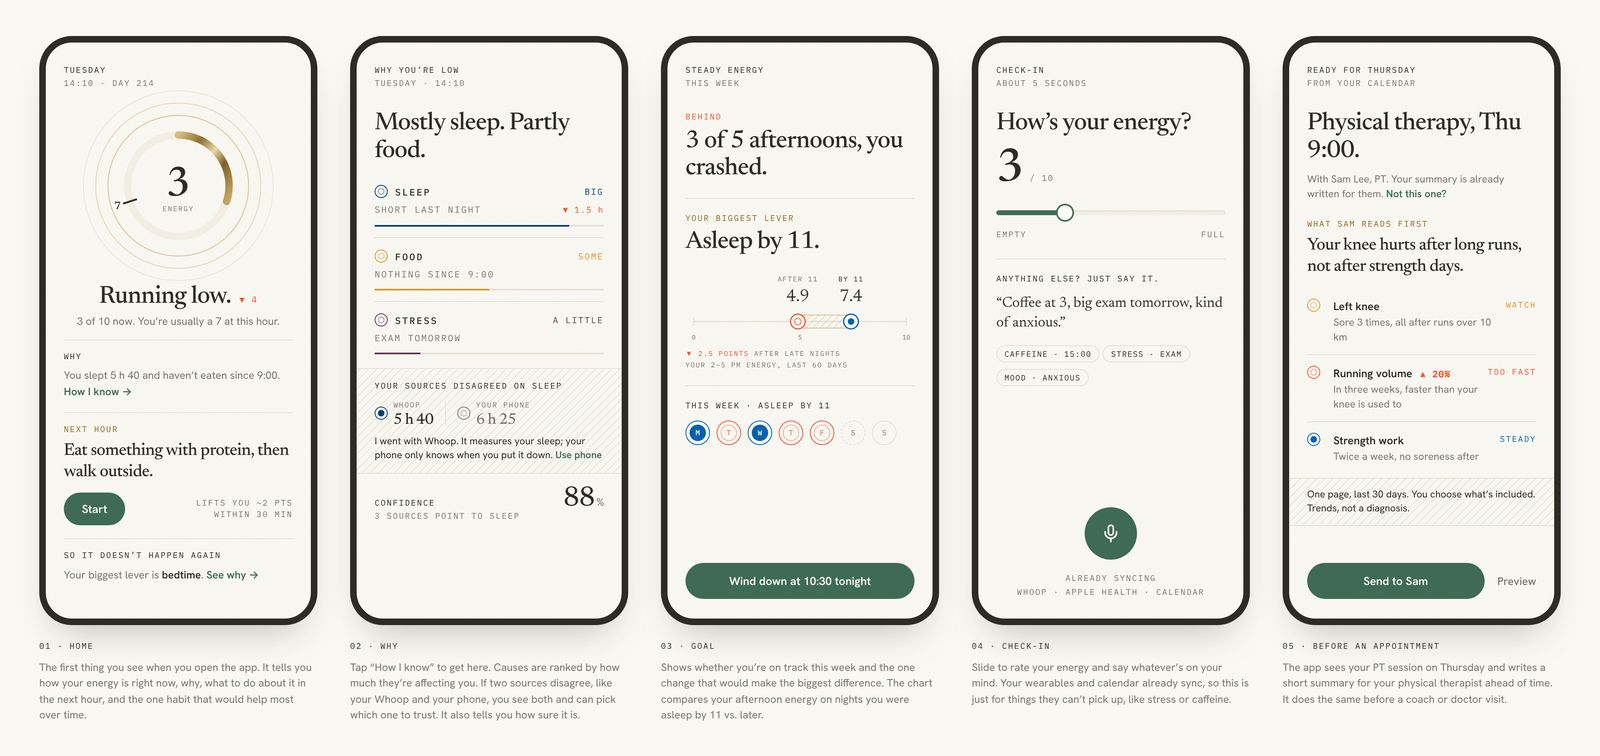
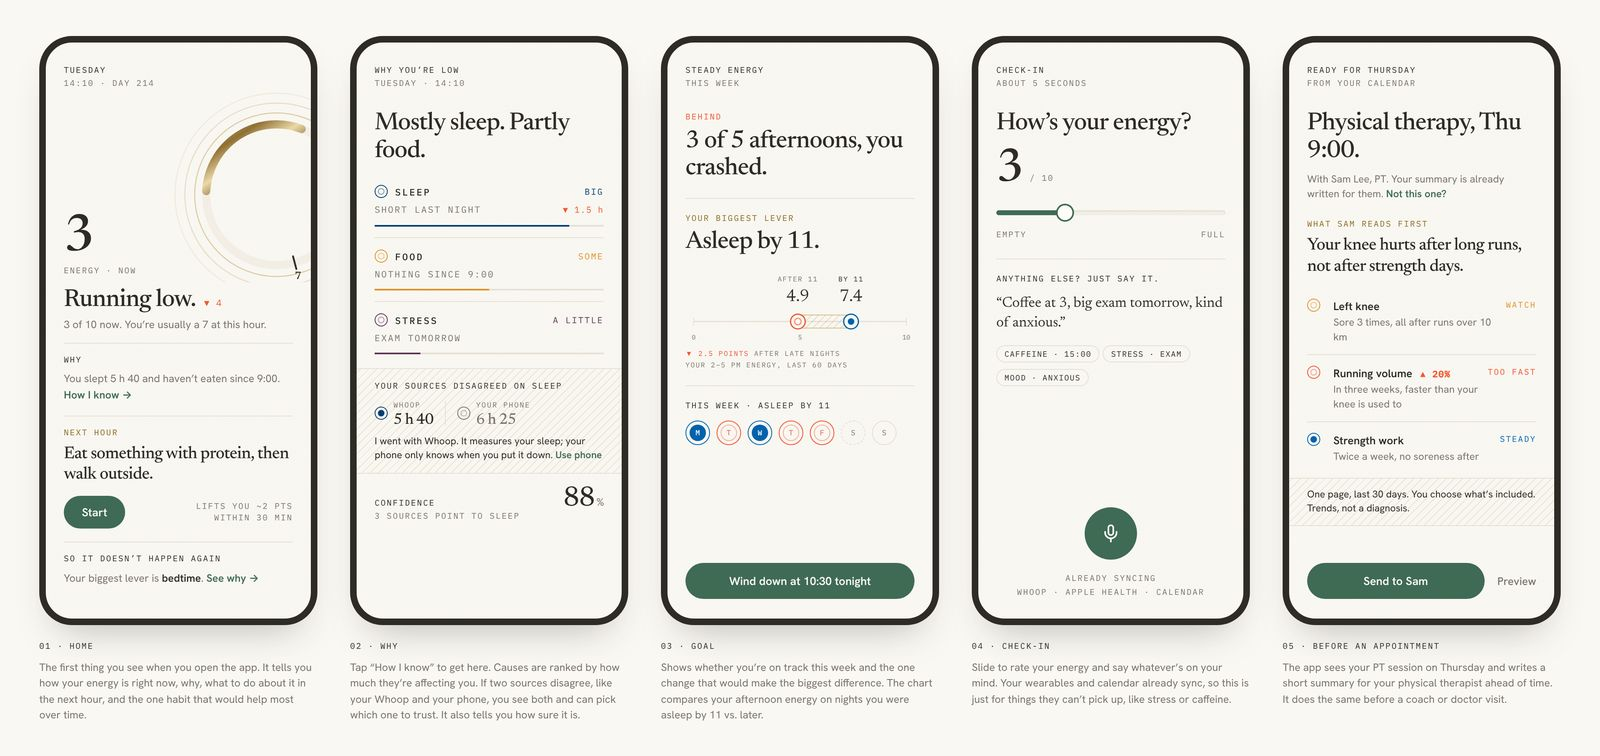
VitaSalus: new hero image and attribute the WHOOP quote to an interviewee

diff --git a/index.html b/index.html
@@ -3692,7 +3692,7 @@
 
                 <figure class="vs-figure vs-figure--hero">
                     <button type="button" class="vs-zoom" aria-label="Enlarge the five final screens">
-                        <img src="vitasalus/screens-overview.jpg" width="1600" height="756" alt="The five final VitaSalus screens side by side: Home (Running low, 3 of 10), Why (Mostly sleep, partly food), Goal (Behind, 3 of 5 afternoons you crashed), Check-in (How's your energy?), and Before an appointment (Physical therapy, Thu 9:00)." decoding="async">
+                        <img src="vitasalus/screens-overview.jpg" width="1600" height="756" alt="The five final VitaSalus screens side by side: Home (energy 3 with the ring running off the right edge, Running low), Why (Mostly sleep, partly food), Goal (Behind, 3 of 5 afternoons you crashed), Check-in (How's your energy?), and Before an appointment (Physical therapy, Thu 9:00)." decoding="async">
                     </button>
                     <figcaption>The five final screens: home, why, goal, check-in, and a summary prepared before an appointment. High-fidelity concepts built from my design system; names and health values are sample data.</figcaption>
                 </figure>
@@ -3796,7 +3796,7 @@
                 <section class="vs-section" id="vs-iteration" aria-labelledby="vs-iteration-h">
                     <p class="vs-kicker">03 · Iteration</p>
                     <h2 class="serif vs-h2" id="vs-iteration-h">Four rounds, each fixing a specific problem with the one before.</h2>
-                    <p class="project-description">I reviewed every round as the person I’m designing for: an optimizer who already owns a wearable and is tired of digging for answers. I’m one of them. Today I chat with my WHOOP’s AI and dig through its dashboards to work out what to do, and it’s a painstaking experience.</p>
+                    <p class="project-description">I reviewed every round as the person I’m designing for: an optimizer who already owns a wearable and is tired of digging for answers. One person I interviewed described chatting with their WHOOP’s AI and digging through its dashboards just to work out what to do as a painstaking experience.</p>
 
                     <figure class="vs-figure">
                         <button type="button" class="vs-zoom" aria-label="Enlarge the home screen across four rounds">
